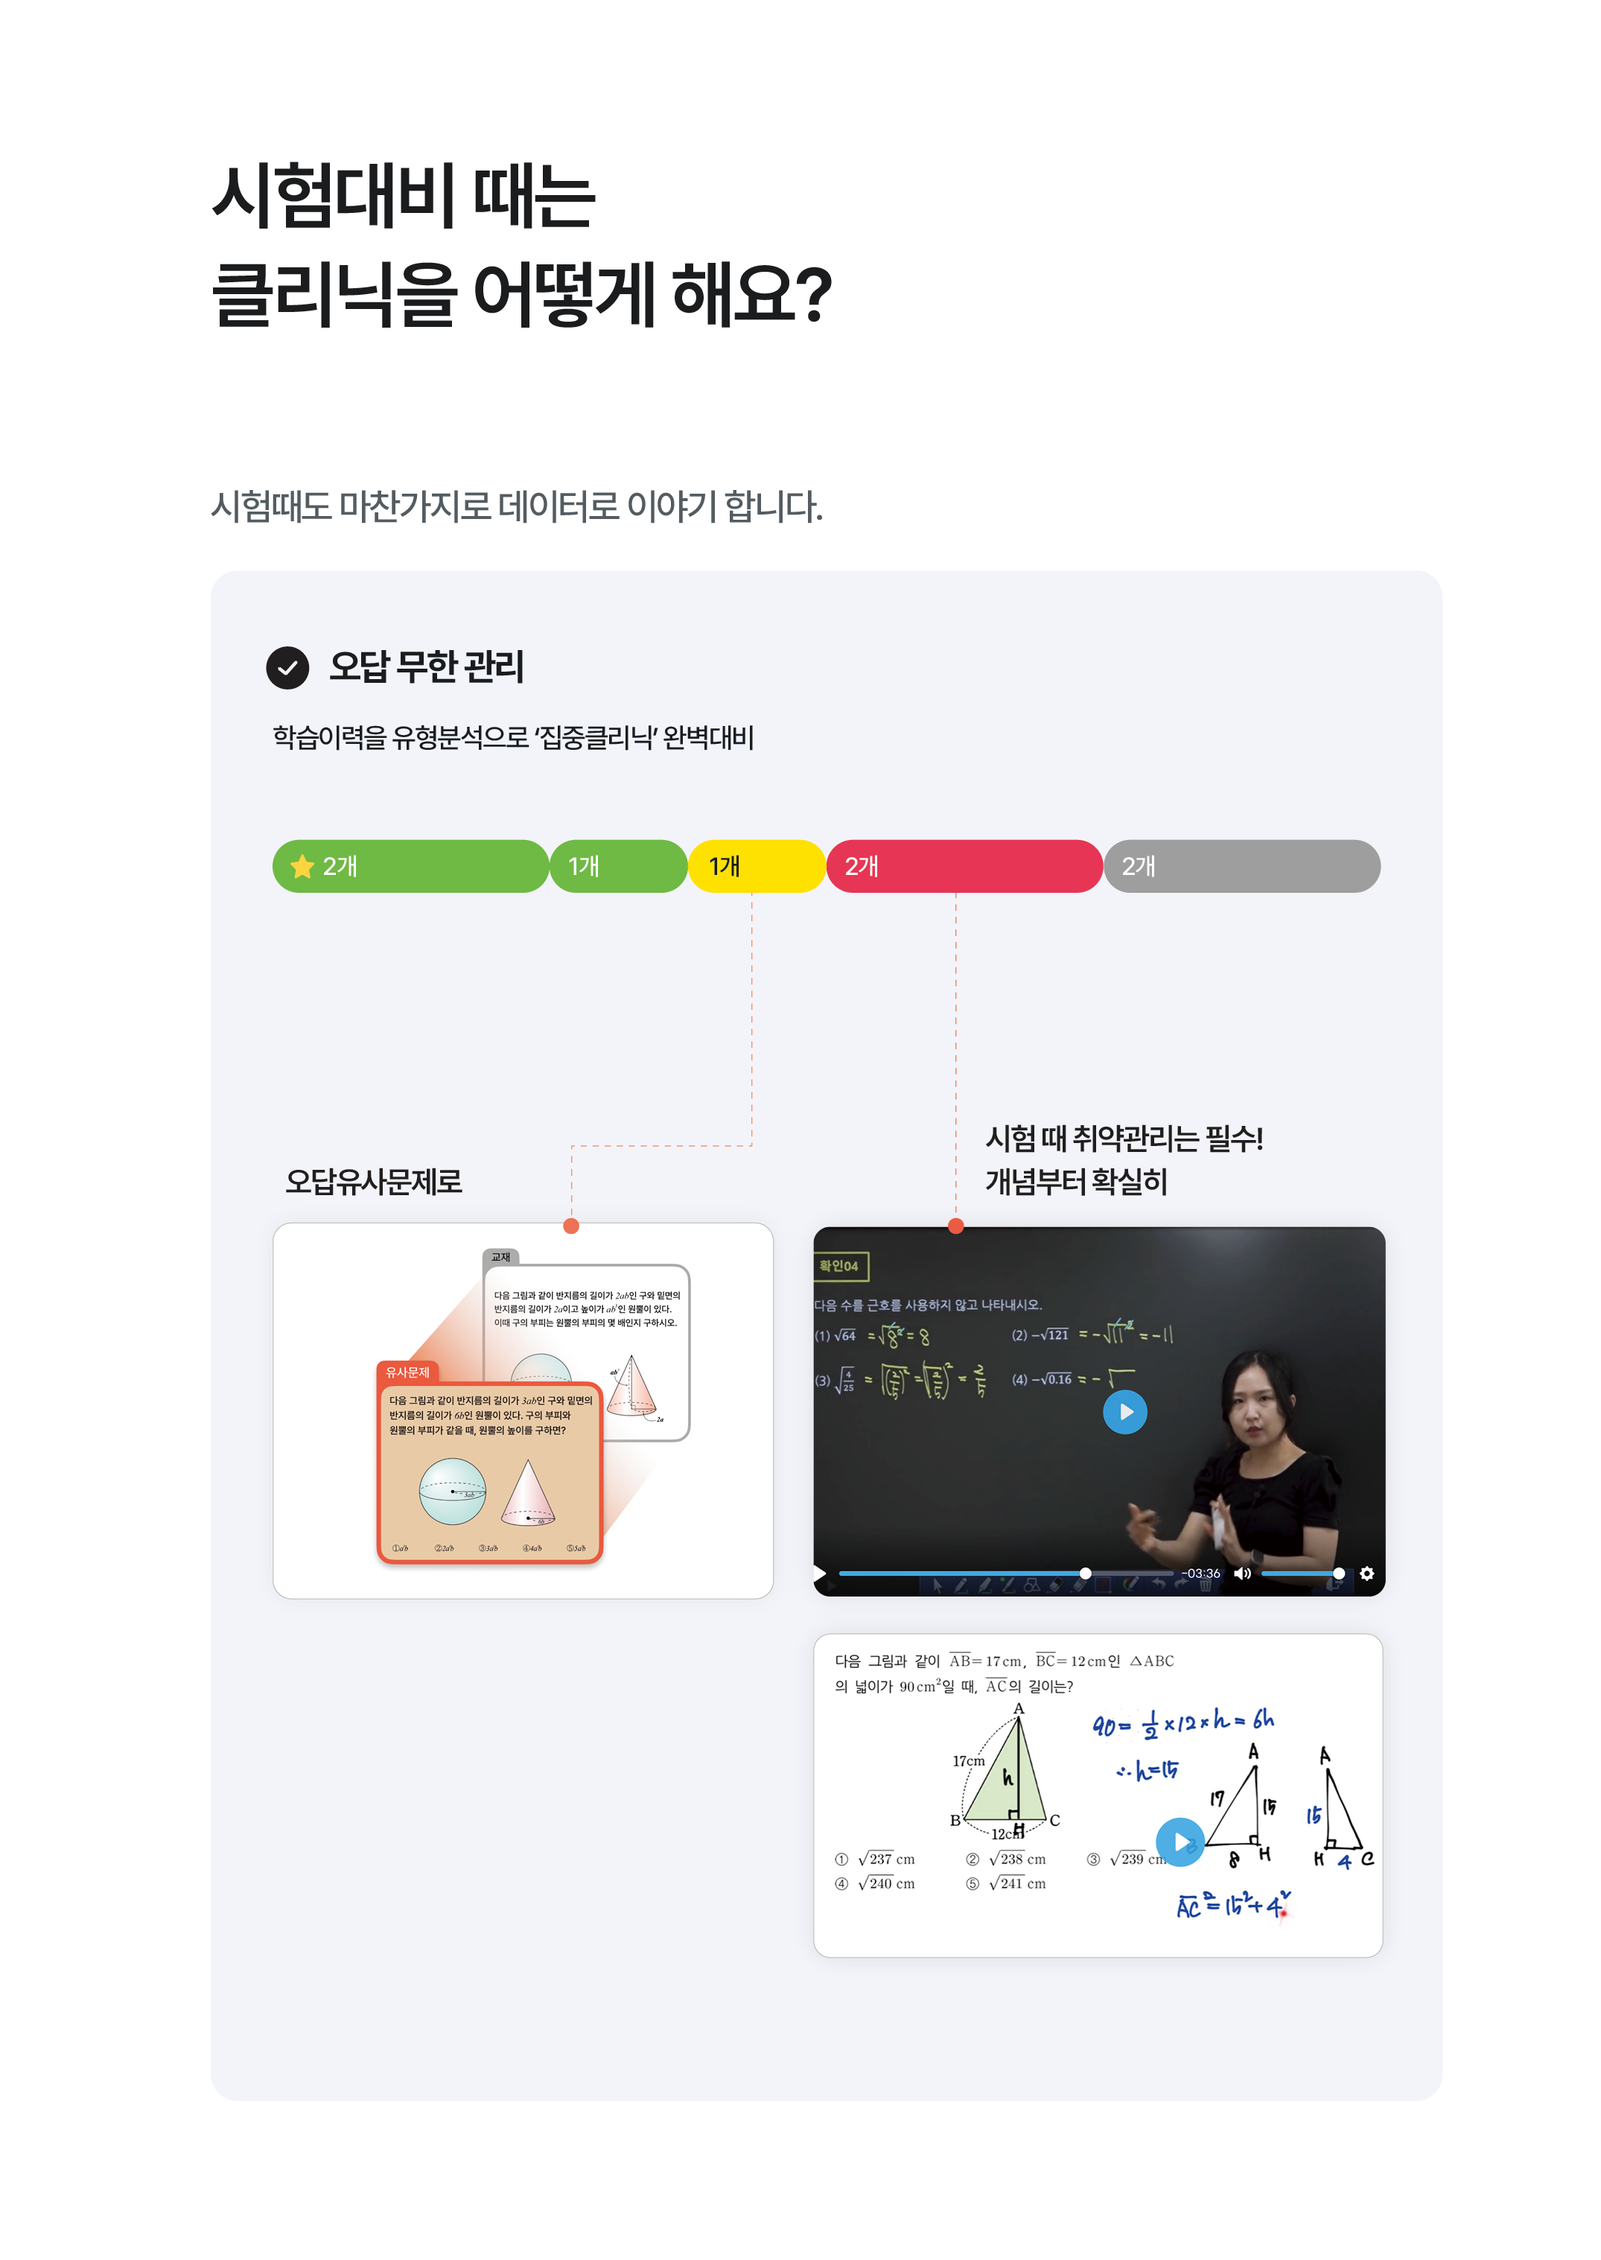
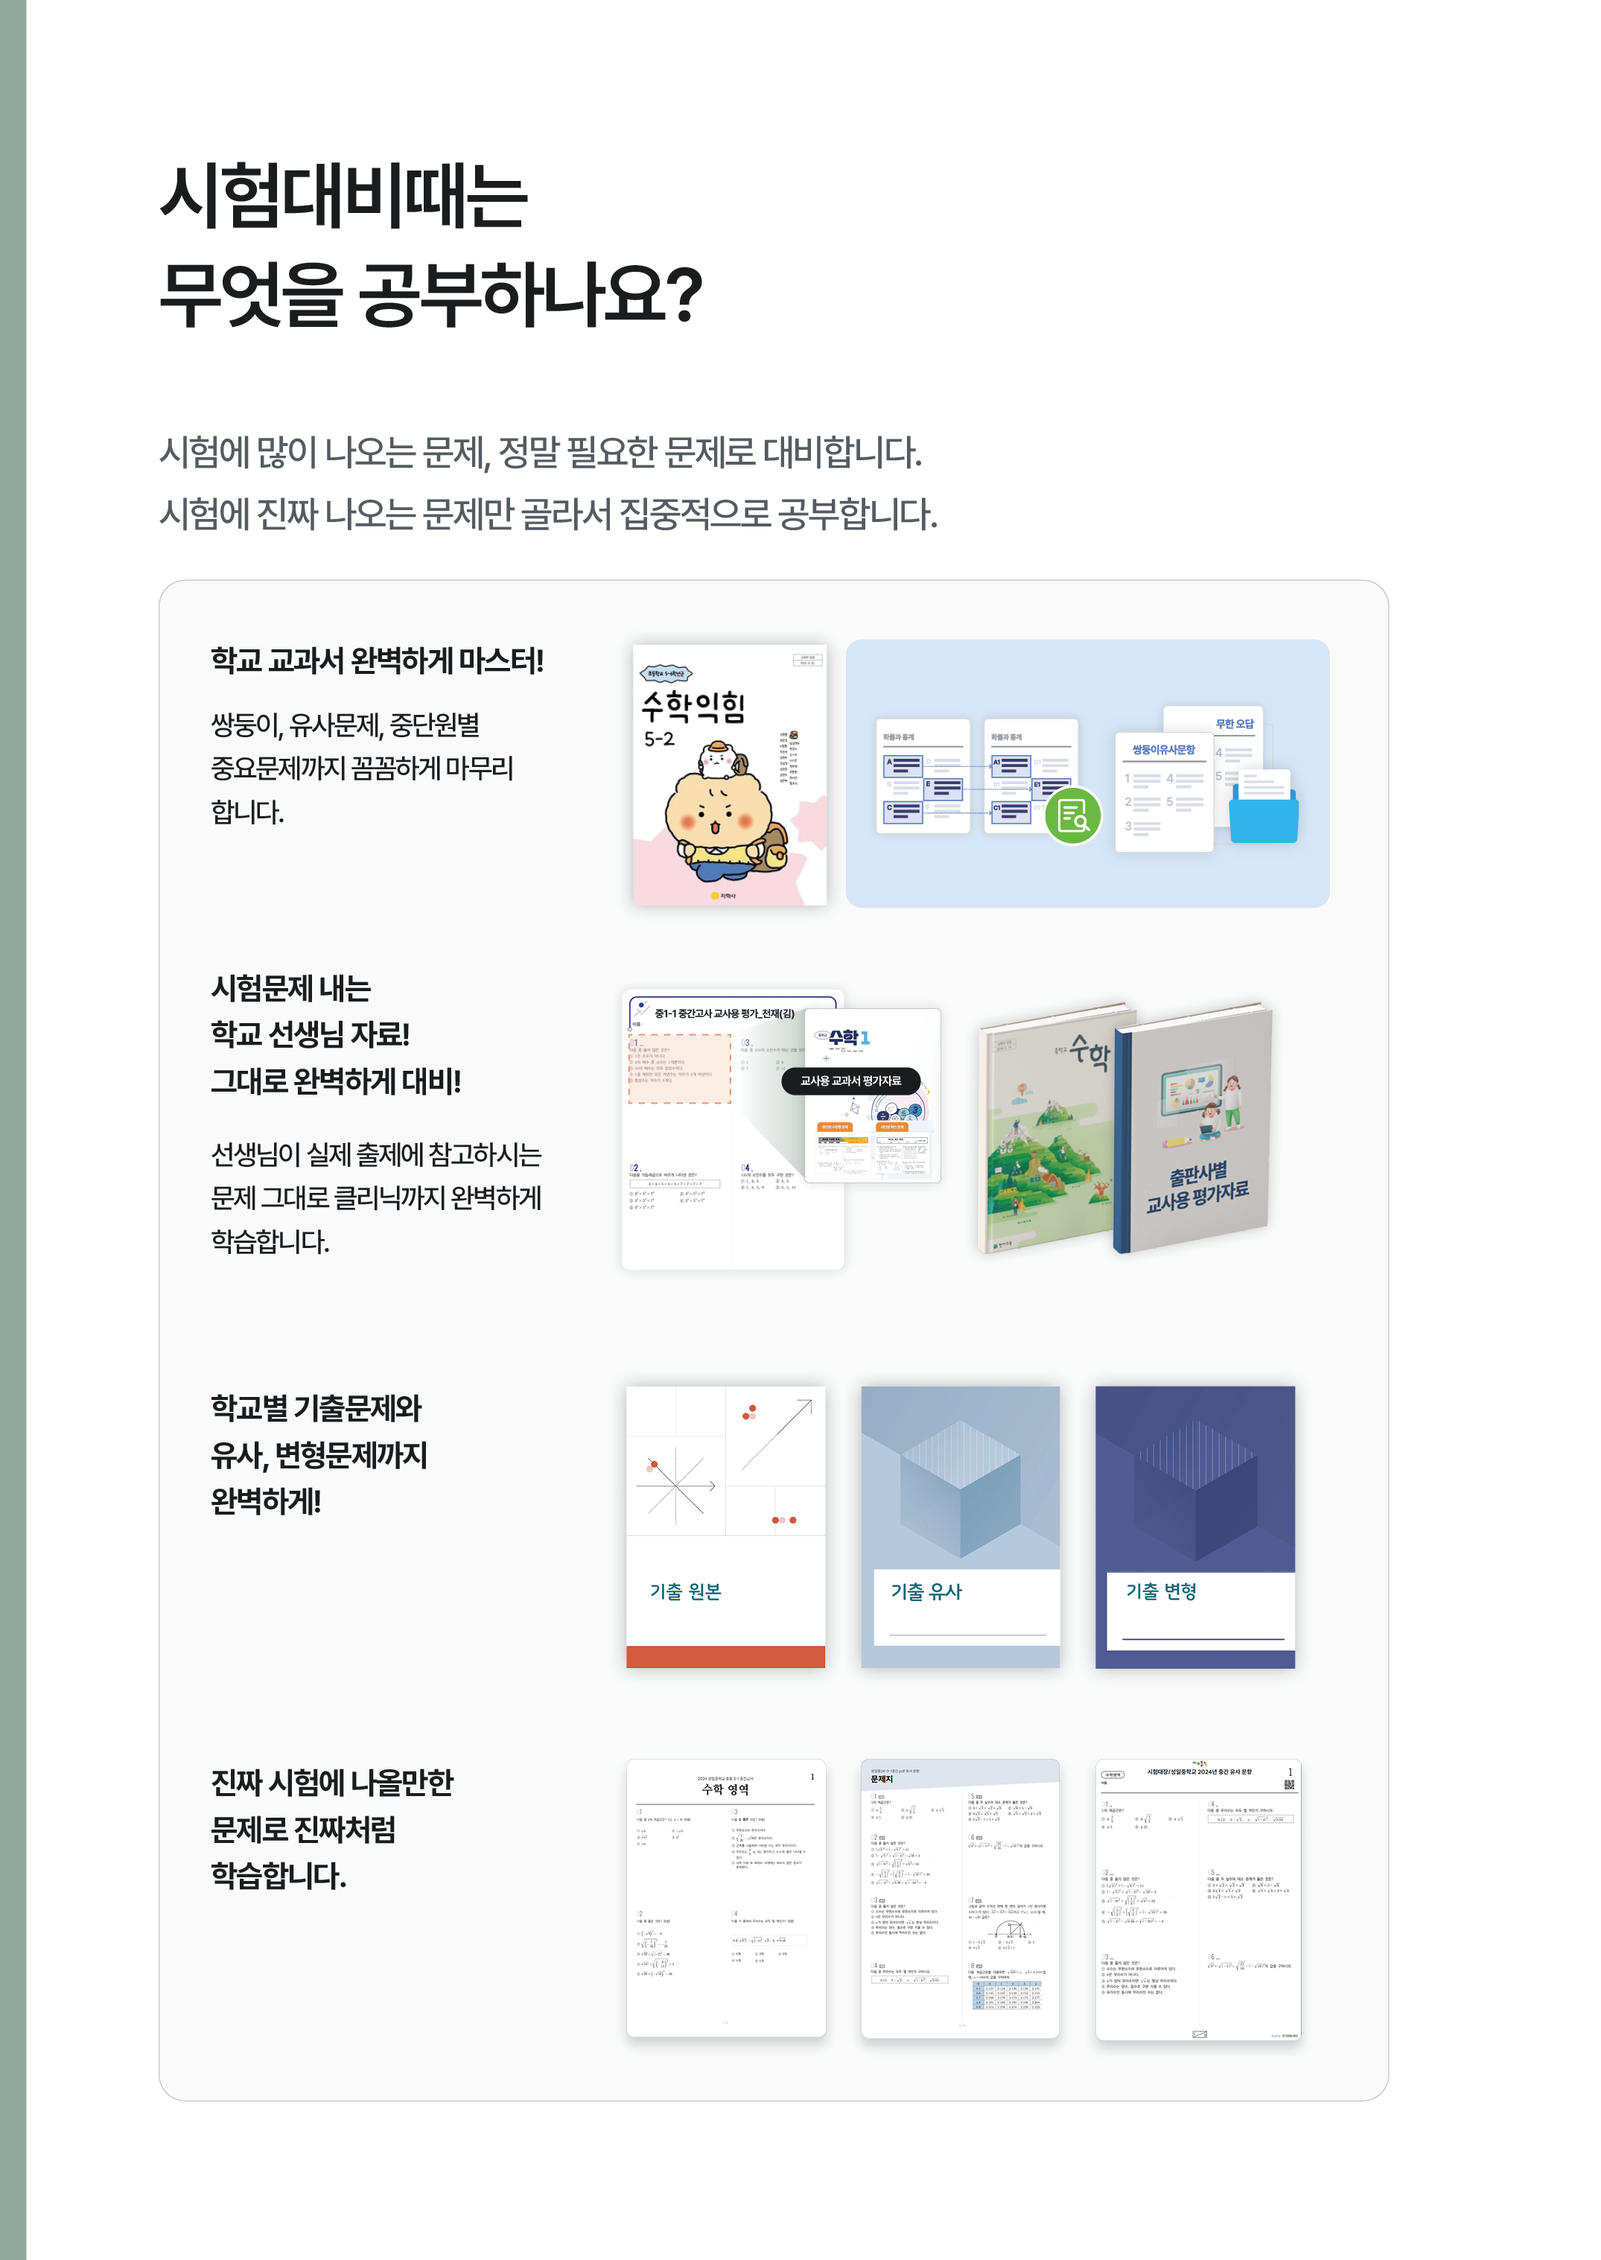
topic_4_3 에셋 교체

diff --git a/index.html b/index.html
@@ -1709,7 +1709,7 @@ async function sendToVendor(){
     }
   }catch(err){
     console.error(err);
-    statusEl.textContent = '발송에 실패했습니다: ' + err.message + ' (다운로드한 PDF를 직접 첨부해서 보내주세요.)';
+    statusEl.textContent = '발송에 실패했습니다: ' + err.message + ' 잠시 후 다시 시도하시거나 관리자에게 문의해주세요.';
   }finally{
     btn.disabled = false;
   }
@@ -1945,7 +1945,9 @@ async function buildPdf(){
     const blob = new Blob([bytes], { type:'application/pdf' });
     const url = URL.createObjectURL(blob);
 
-    document.getElementById('previewFrame').src = url;
+    // 다운로드 없이 미리보기만 가능하도록: 브라우저 내장 PDF 뷰어의 툴바(다운로드/인쇄 버튼)를 최대한 숨깁니다.
+    // 참고: 이는 UI상 버튼을 숨기는 것일 뿐, 완전한 다운로드 차단은 아닙니다(브라우저 자체 단축키·우클릭 저장 등은 막을 수 없음).
+    document.getElementById('previewFrame').src = url + '#toolbar=0&navpanes=0&scrollbar=0';
     document.getElementById('previewWrap').classList.add('show');
 
     const academyName = document.getElementById('f_name').value.trim() || '우리학원브랜드북';

diff --git a/README.md b/README.md
@@ -30,6 +30,7 @@ academy-kit-order/
   - **PDF 미리보기에는 입력하신 문구(표지 문구·소개 문구·인사말)와 프로필 사진·로고가 자동으로 합성되지 않고, 페이지 구성(샘플 이미지)만 보여드립니다.** 사진·로고 좌표가 사진 비율에 따라 위치가 어긋나 보이는 문제가 있어 꺼두었습니다. 문구는 `index.html`의 `DRAW_TEXT_OVERLAY`를, 사진·로고는 `DRAW_IMAGE_OVERLAY`를 각각 `true`로 바꾸면 다시 합성됩니다 (좌표는 그대로 남아있으니, 좌표를 다시 맞춰드린 뒤 켜는 것을 권장합니다).
   - 3단계(생성·발송)에 들어가면 "신청 내용 확인" 카드에 선택한 구성(추천 템플릿, 또는 표지 디자인+주제별 구성 목록+총 페이지)이 요약되어 [인쇄업체로 이메일 발송하기] 버튼 위에 표시됩니다 — 발송 전에 다시 확인할 수 있습니다.
   - **PDF 미리보기 화면(iframe)에는 계속 `assets/pages` 샘플 이미지로 조립한 PDF가 보이지만, 실제로 인쇄업체에 발송되는 이메일에는 이 PDF 파일을 첨부하지 않고 주문 정보 + 선택한 구성 요약을 텍스트로만 보냅니다.** ⚠ 이 부분은 `google-apps-script/Code.gs`도 함께 고쳐야 동작합니다 — 아래 "이메일 자동 발송 + 신청내역 시트 기록 설정" 안내를 꼭 확인해주세요.
+  - **PDF 미리보기는 다운로드 없이 화면 확인만 가능하도록** 브라우저 내장 PDF 뷰어의 툴바(다운로드·인쇄 버튼)를 숨겼습니다(`previewFrame`의 `src`에 `#toolbar=0&navpanes=0&scrollbar=0`을 붙임). 다만 이는 브라우저가 기본 제공하는 버튼만 숨기는 것으로, 완전한 다운로드 차단은 아닙니다(브라우저별 단축키·개발자도구 등으로는 여전히 저장이 가능할 수 있습니다) — 참고로 알아주세요.
   - 연락처·우편번호·배송 주소에 형식 검증이 추가되었습니다. **연락처는 `010-0000-0000` 형식(휴대폰, 010+8자리 총 11자리)만 허용**하고, **우편번호는 5자리 숫자**만 허용하며, 주소는 공백을 뺀 글자수가 5자 이상인지 확인합니다. 형식이 안 맞으면 발송 전에 안내 문구가 뜨고 전송되지 않습니다 (현판·웰컴키트 신청도 동일하게 검증됩니다). 우편번호는 별도 항목 대신 배송 주소 앞에 `(12345) 실제주소` 형태로 합쳐서 전송되어, `Code.gs`를 추가로 수정하지 않아도 이메일 본문·신청내역 시트에 그대로 반영됩니다.
   - **우편번호를 모르는 고객을 위해 "검색" 버튼을 추가했습니다.** 우편번호 입력칸 옆 [검색] 버튼을 누르면 다음(카카오) 우편번호 검색 팝업이 열리고, 주소만 검색하면 우편번호+도로명주소가 자동으로 입력됩니다 (외부 API 키·가입 없이 무료로 쓸 수 있는 표준 서비스입니다). 우편번호를 이미 알고 있으면 검색 없이 직접 입력해도 됩니다.
 - **현판 주문 / 웰컴키트 주문**: 디자인 확인 후 문구·원장명 정보만 입력하면 PDF 없이 바로 접수 이메일 발송 (연락처·우편번호·배송 주소는 위와 동일하게 형식 검증됩니다). **현판 수량은 1개로 고정**되어 있습니다 (입력칸이 아니라 고정 표시입니다).
@@ -184,12 +185,26 @@ FAQ의 "최소 32페이지"는 공통 내지 12p(원장님 프로필1·뒤표지
 
 **이미 배포한 적이 있다면**: "새 배포"를 또 만들면 URL이 바뀝니다. 대신 "배포 관리"에서 기존 배포를 선택하고 연필(수정) 아이콘 → 버전을 "새 버전"으로 바꾸고 배포하면, URL은 그대로 유지된 채 코드만 최신화됩니다.
 
-### ⚠ 학원맞춤키트 이메일 발송 방식 변경 — Code.gs 직접 수정 필요
-이번 라운드부터 `index.html`은 학원맞춤키트 신청 시 더 이상 `pdfBase64`(PDF 파일)를 보내지 않고, 주문 정보 + 선택한 구성 요약(`configSummary`)만 텍스트로 보냅니다.
-그런데 기존 `Code.gs`의 `handleKitOrder` 함수는 `pdfBase64`가 없으면 곧바로 "PDF 데이터가 없습니다" 오류를 내고 발송을 중단하도록 되어 있어서,
-**`Code.gs`도 아래처럼 함께 고쳐주셔야 학원맞춤키트 이메일 발송이 계속 정상 동작합니다** (현판·웰컴키트는 원래 PDF를 쓰지 않아 영향이 없습니다).
+### ⚠ 학원맞춤키트 이메일 발송 방식 변경 + 신청 알림 이메일(hdseo@matholic.net, ms.lee@matholic.net) 추가 — Code.gs 직접 수정 필요
+아래 두 가지 변경 사항을 반영한 **최종본**입니다 (이전에 "PDF 미첨부" 변경분을 이미 반영하셨어도, 아래 내용으로 다시 통째로 덮어써주시면 됩니다).
+1. `index.html`은 학원맞춤키트 신청 시 더 이상 `pdfBase64`(PDF 파일)를 보내지 않고, 주문 정보 + 선택한 구성 요약(`configSummary`)만 텍스트로 보냅니다. 기존 `Code.gs`의 `handleKitOrder`는 `pdfBase64`가 없으면 "PDF 데이터가 없습니다" 오류를 내므로 아래처럼 고쳐야 합니다 (현판·웰컴키트는 원래 PDF를 쓰지 않아 영향 없습니다).
+2. 신청(학원맞춤키트·현판·웰컴키트 전부)이 들어올 때마다 **`hdseo@matholic.net`, `ms.lee@matholic.net`에게도 항상 참조(cc)로 알림 메일이 가도록** `NOTIFY_EMAILS` 목록을 추가합니다. 신청자 본인 이메일(cc)은 기존처럼 함께 유지됩니다.
 
-`Code.gs`에서 `handleKitOrder` 함수 전체를 찾아 아래 내용으로 통째로 바꿔주세요:
+**1) 코드 맨 위, `var PRINT_VENDOR_EMAIL = ...` 줄 바로 아래에 추가:**
+```js
+var NOTIFY_EMAILS = ['hdseo@matholic.net', 'ms.lee@matholic.net']; // 신청이 들어올 때마다 항상 참조로 받을 내부 담당자 이메일
+
+// 신청자 이메일(있으면) + NOTIFY_EMAILS를 합쳐 cc 문자열을 만듭니다.
+function buildCcList(applicantEmail) {
+  var list = NOTIFY_EMAILS.slice();
+  if (applicantEmail && /.+@.+\..+/.test(applicantEmail)) {
+    list.push(applicantEmail);
+  }
+  return list.join(',');
+}
+```
+
+**2) `handleKitOrder` 함수 전체를 찾아 아래 내용으로 통째로 교체:**
 ```js
 // ===================== 학원맞춤키트 (PDF 미첨부, 주문 내용만 발송) =====================
 function handleKitOrder(data) {
@@ -213,17 +228,47 @@ function handleKitOrder(data) {
     to: PRINT_VENDOR_EMAIL,
     subject: subject,
     body: bodyLines.join('\n'),
+    cc: buildCcList(data.email),
     name: 'MATHOLIC 학원맞춤키트',
   };
-  if (data.email && /.+@.+\..+/.test(data.email)) {
-    mailOptions.cc = data.email;
-  }
 
   MailApp.sendEmail(mailOptions);
   return jsonOutput({ status: 'ok' });
 }
 ```
-바꾼 뒤 저장 → "배포 관리"에서 기존 배포를 "새 버전"으로 재배포하면 됩니다 (URL은 그대로 유지됩니다). PDF는 신청 고객이 3단계에서 직접 화면으로 미리 보고 확인하는 용도로만 쓰이고, 실제 인쇄 작업은 이메일 본문의 텍스트 정보를 바탕으로 진행하시면 됩니다.
+
+**3) `handleSimpleOrder` 함수 전체를 찾아 아래 내용으로 통째로 교체 (현판·웰컴키트용, cc만 추가된 것 외 나머지는 동일):**
+```js
+// ===================== 현판 / 웰컴키트 (PDF 없이 바로 접수) =====================
+function handleSimpleOrder(orderType, data) {
+  var label = orderType === 'sign' ? '현판' : '웰컴키트';
+  var academyName = data.text || '(학원명 미입력)';
+  var subject = '[' + label + ' 신청] ' + academyName;
+  var bodyLines = [
+    label + ' 신청이 접수되었습니다.',
+    '',
+    '문구(학원명): ' + (data.text || ''),
+    '수량: ' + (data.qty || ''),
+    '담당자: ' + (data.manager || ''),
+    '연락처: ' + (data.phone || ''),
+    '신청자 이메일: ' + (data.email || ''),
+    '배송/설치 주소: ' + (data.address || ''),
+  ];
+
+  var mailOptions = {
+    to: PRINT_VENDOR_EMAIL,
+    subject: subject,
+    body: bodyLines.join('\n'),
+    cc: buildCcList(data.email),
+    name: 'MATHOLIC ' + label + ' 신청',
+  };
+
+  MailApp.sendEmail(mailOptions);
+  return jsonOutput({ status: 'ok' });
+}
+```
+
+셋 다 바꾼 뒤 저장 → "배포 관리"에서 기존 배포를 "새 버전"으로 재배포하면 됩니다 (URL은 그대로 유지됩니다). PDF는 신청 고객이 3단계에서 직접 화면으로 미리 보고 확인하는 용도로만 쓰이고, 실제 인쇄 작업은 이메일 본문의 텍스트 정보를 바탕으로 진행하시면 됩니다.
 
 ### 신청내역 시트 만들기
 1. https://sheets.google.com 에서 새 스프레드시트를 만듭니다 (이름은 자유).
@@ -248,7 +293,7 @@ function handleKitOrder(data) {
 4. **인쇄 제본 여백 자동 조정** — 무선제본 특성상 페이지가 홀수/짝수 위치에 따라 안쪽 여백이 달라져야
    할 수 있습니다. 인쇄업체에 확인 후 필요하면 자동 조정 로직을 추가할 수 있습니다.
 5. **`assets/thumbs/profile-1.jpg`를 이용한 "원장님 프로필" 미리보기 카드** — 표지 섹션 바로 아래에 미리보기 카드로 추가했습니다(선택 항목 아님, 페이지 수에 포함 안 됨). 의도와 다르면 말씀해주세요 — 위치를 바꾸거나, 삭제하거나, 실제 PDF에 이 이미지를 그대로 쓰도록(현재는 표지 세트의 `cover_1_2a.png`/`cover_(2~6)_2b.png`를 그대로 씀) 바꿀 수 있습니다.
-6. **`Code.gs`의 `handleKitOrder` 수정 반영 필요** — 위 "학원맞춤키트 이메일 발송 방식 변경" 안내대로 `Code.gs`를 직접 고쳐서 재배포해주셔야, `index.html`이 더 이상 `pdfBase64`를 보내지 않는 것과 짝이 맞습니다. 반영 전까지는 학원맞춤키트 이메일 발송이 "PDF 데이터가 없습니다" 오류로 실패합니다.
+6. **`Code.gs` 수정 반영 필요** — 위 "학원맞춤키트 이메일 발송 방식 변경 + 신청 알림 이메일 추가" 안내대로 `Code.gs`를 직접 고쳐서 재배포해주셔야 합니다. (1) `handleKitOrder` 반영 전까지는 학원맞춤키트 이메일 발송이 "PDF 데이터가 없습니다" 오류로 실패하고, (2) `NOTIFY_EMAILS`/`buildCcList` 반영 전까지는 hdseo@matholic.net·ms.lee@matholic.net에게 신청 알림이 가지 않습니다.
 7. **소개 문구·인사말 글자수 제한(100자/300자)이 적당한지 확인 필요** — 임의로 정한 값이라, 인쇄 레이아웃에 맞춰 원하시는 글자수로 조정해드릴 수 있습니다.
 
 ## 깃허브 페이지로 배포하는 방법
